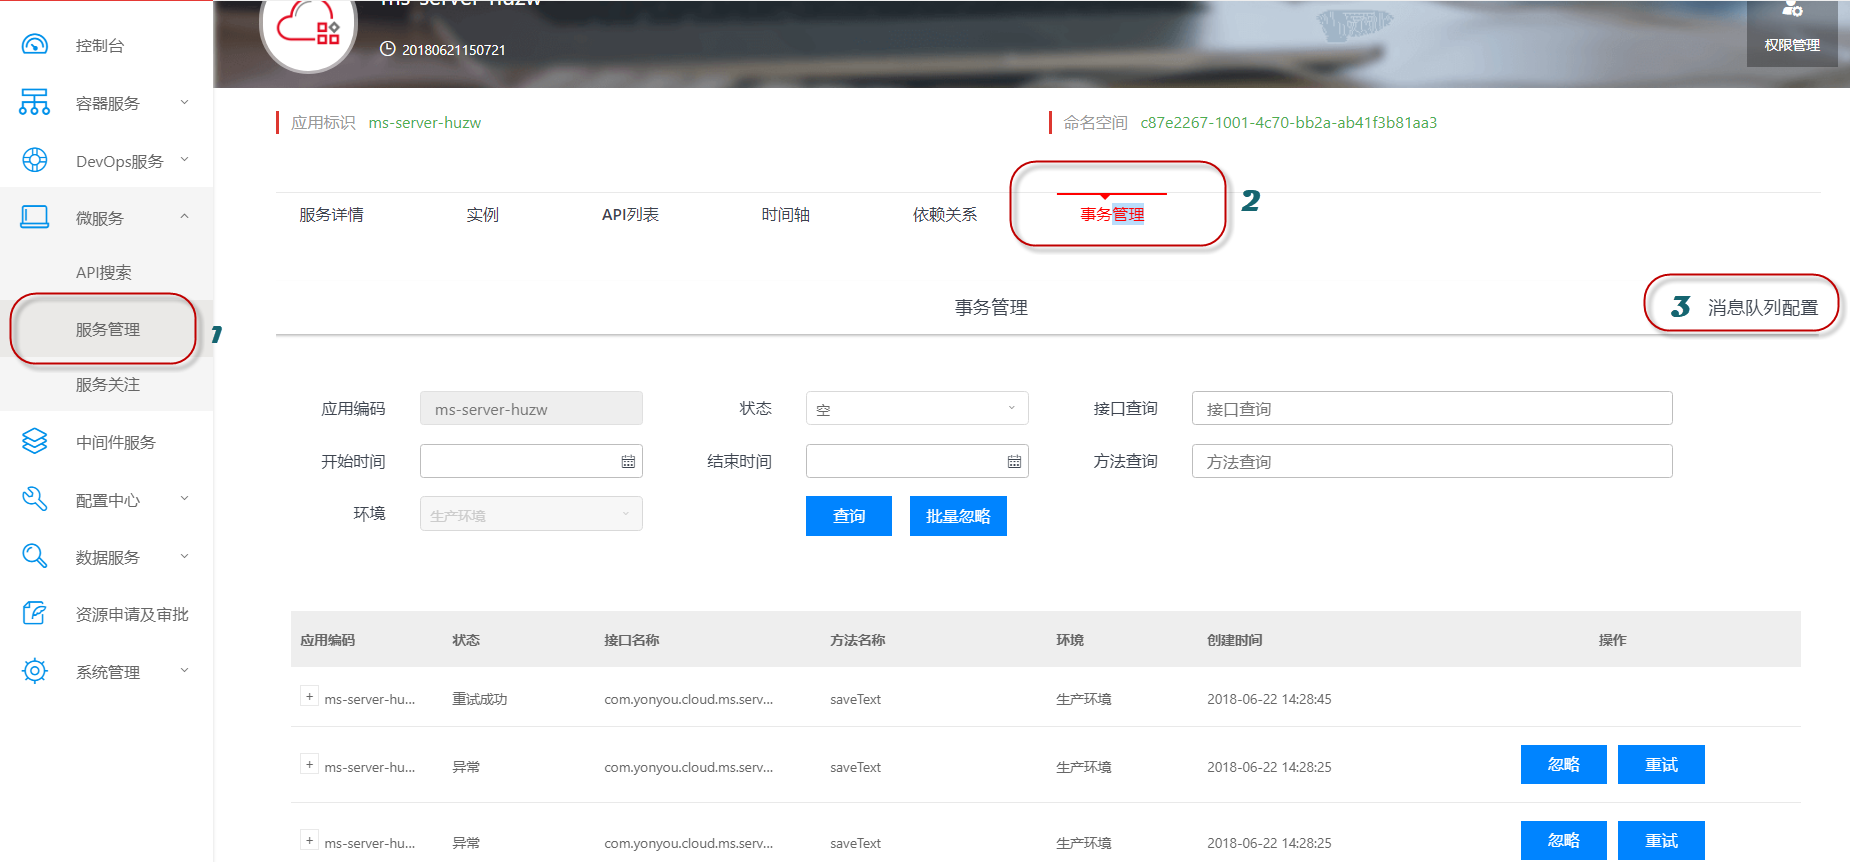
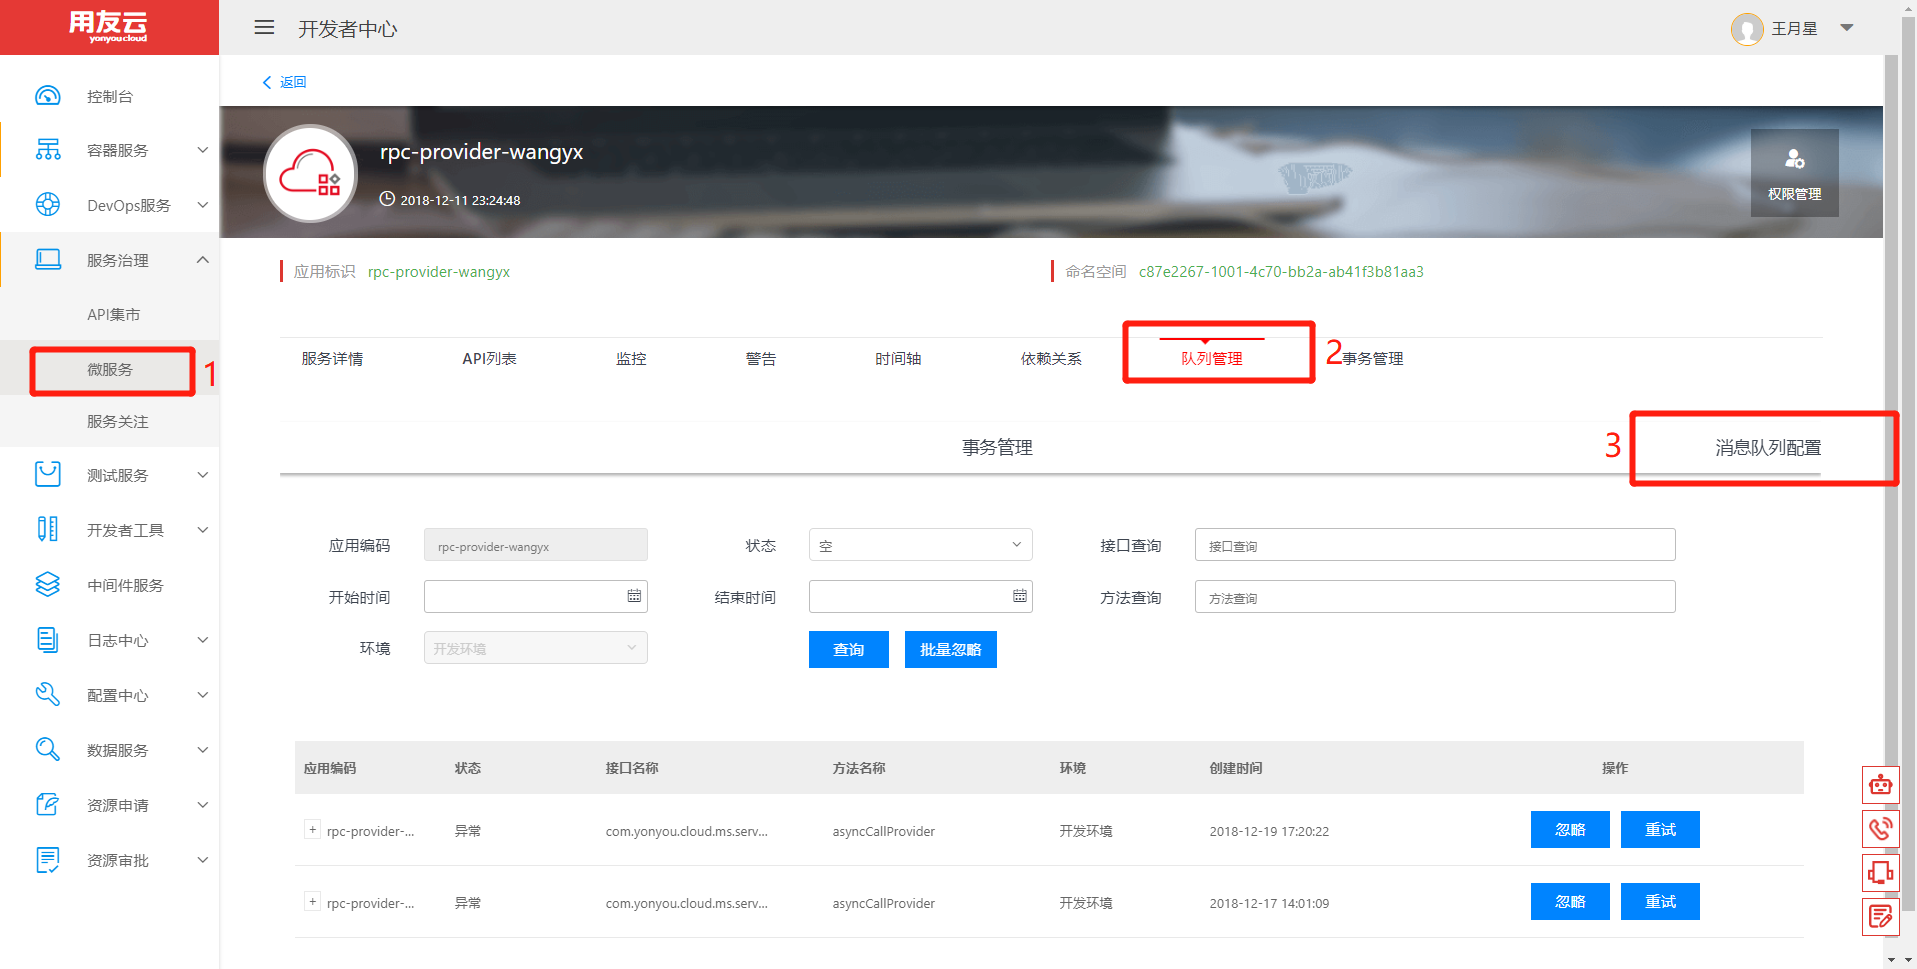
fix

diff --git a/articles/cservice/3-/3.3/manual.md b/articles/cservice/3-/3.3/manual.md
@@ -3,7 +3,7 @@
 
 ## 权限设置
 
-进入微服务下的服务管理菜单，打开服务提供者的应用，例如rpc-provider，进入对应的环境下的微服务页签，点击“API”列表，进入列表、卡片界面，选中需要设置权限的接口，界面会以卡片或者列表的方式展示接口下的方法。
+进入服务治理下的微服务菜单，打开服务提供者的应用，例如rpc-provider，进入对应的环境下的微服务页签，点击“API”列表，进入列表、卡片界面，选中需要设置权限的接口，界面会以卡片或者列表的方式展示接口下的方法。
 
 元数据中暴露的远程方法默认为公有，如果需要设置权限，点击公有/私有开关，会弹出确认窗口，如下图所示：
 

diff --git a/articles/cservice/3-/3.8/manual.md b/articles/cservice/3-/3.8/manual.md
@@ -4,7 +4,7 @@
 
 ## 关注服务
 
-打开微服务菜单下的服务管理，搜索到关心的微服务应用，在服务详情页签中，点击关注按钮，如下图：
+打开服务治理菜单下的微服务，搜索到关心的微服务应用，在服务详情页签中，点击关注按钮，如下图：
 
 ![](images/guanzhu.png)
 

diff --git a/articles/cservice/3-/3.6/3.6.2/tcc_manual.md b/articles/cservice/3-/3.6/3.6.2/tcc_manual.md
@@ -1,4 +1,4 @@
-#TccTransaction分布式事务框架·用户指南
+# TccTransaction分布式事务框架·用户指南
 
 ## 产品介绍
 
